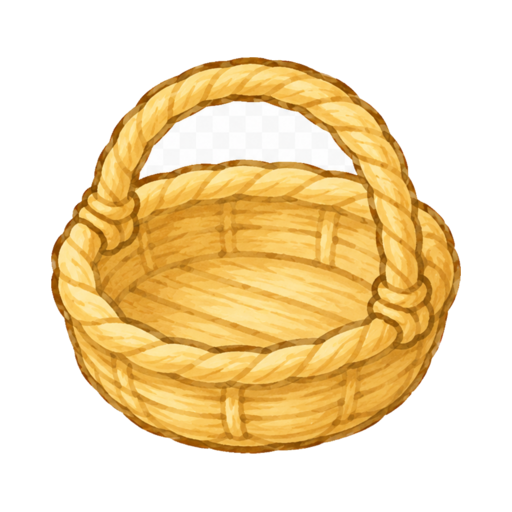
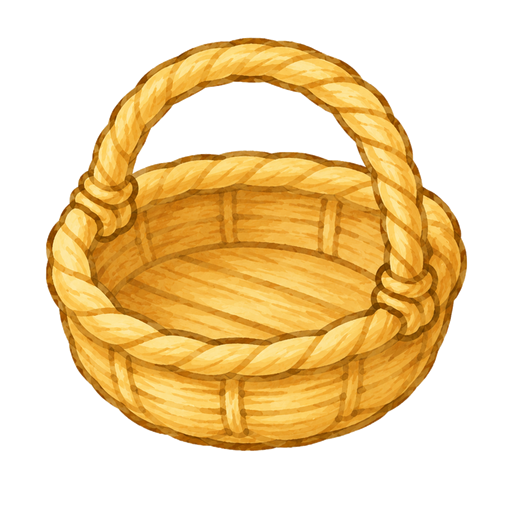
art: extend basket shop items through 10

diff --git a/docs/art/image-archive.html b/docs/art/image-archive.html
@@ -1813,7 +1813,7 @@
       </div>
       <nav class="head-actions" aria-label="그림 바로가기">
         <a class="head-action" href="#raccoon-types">너구리 A~D</a>
-        <a class="head-action primary" href="#chapter-items">새 물건 144/400</a>
+        <a class="head-action primary" href="#chapter-items">새 물건 150/400</a>
       </nav>
     </header>
 
@@ -1844,7 +1844,7 @@
     </section>
 
     <section class="section" id="chapter-items">
-      <div class="section-head"><div><p class="section-kicker">CHAPTER 1 · 144 / 400</p><h2>새 물건 제작</h2></div><p class="section-note">새 제작 계약으로 다시 그리는 1챕터 물건. 검수 통과 파일만 표시한다.</p></div>
+      <div class="section-head"><div><p class="section-kicker">CHAPTER 1 · 150 / 400</p><h2>새 물건 제작</h2></div><p class="section-note">새 제작 계약으로 다시 그리는 1챕터 물건. 검수 통과 파일만 표시한다.</p></div>
       <div style="margin:0 0 22px;padding:18px;border:1px solid var(--line);border-radius:14px;background:var(--green-soft)">
         <strong style="display:block;margin-bottom:8px">물건 아트 확정 기준 · 2026-09-02</strong>
         <p style="margin:0;color:var(--muted);font-size:13px">작은 모바일 화면에서 즉시 읽히는 단순한 실루엣을 우선한다. 명암은 2~4단계로 제한하고, 고밀도 일러스트 렌더링 대신 담백한 수채화 느낌을 사용한다. 재질은 물건을 구분하는 만큼만 표현하며 반복 질감은 빽빽하게 넣지 않는다.</p>
@@ -2013,17 +2013,23 @@
         </div>
         <h3 style="margin:24px 0 12px">08 · 소쿠리집</h3>
         <div style="display:grid;grid-template-columns:repeat(auto-fill,minmax(150px,1fr));gap:12px">
-          <a href="../../art/ch1/08-소쿠리집/01-짚 바구니.png?v=20260901" target="_blank" style="display:block;border:1px solid var(--line);border-radius:14px;padding:12px;text-decoration:none;background:#fff"><span style="display:grid;place-items:center;aspect-ratio:1;background:repeating-conic-gradient(#f4f4f4 0 25%,#fff 0 50%) 0/20px 20px;border-radius:10px"><img src="../../art/ch1/08-소쿠리집/01-짚 바구니.png?v=20260901" alt="짚 바구니" style="width:100%;height:100%;object-fit:contain"></span><strong style="display:block;margin-top:9px">01-짚 바구니</strong><small style="color:var(--muted)">512×512 · 투명 PNG</small></a>
+          <a href="../../art/ch1/08-소쿠리집/01-짚 바구니.png?v=20260902-3" target="_blank" style="display:block;border:1px solid var(--line);border-radius:14px;padding:12px;text-decoration:none;background:#fff"><span style="display:grid;place-items:center;aspect-ratio:1;background:repeating-conic-gradient(#f4f4f4 0 25%,#fff 0 50%) 0/20px 20px;border-radius:10px"><img src="../../art/ch1/08-소쿠리집/01-짚 바구니.png?v=20260902-3" alt="짚 바구니" style="width:100%;height:100%;object-fit:contain"></span><strong style="display:block;margin-top:9px">01-짚 바구니</strong><small style="color:var(--muted)">512×512 · 투명 PNG</small></a>
           <a href="../../art/ch1/08-소쿠리집/02-싸리 바구니.png?v=20260901" target="_blank" style="display:block;border:1px solid var(--line);border-radius:14px;padding:12px;text-decoration:none;background:#fff"><span style="display:grid;place-items:center;aspect-ratio:1;background:repeating-conic-gradient(#f4f4f4 0 25%,#fff 0 50%) 0/20px 20px;border-radius:10px"><img src="../../art/ch1/08-소쿠리집/02-싸리 바구니.png?v=20260901" alt="싸리 바구니" style="width:100%;height:100%;object-fit:contain"></span><strong style="display:block;margin-top:9px">02-싸리 바구니</strong><small style="color:var(--muted)">512×512 · 투명 PNG</small></a>
           <a href="../../art/ch1/08-소쿠리집/03-소쿠리.png?v=20260901" target="_blank" style="display:block;border:1px solid var(--line);border-radius:14px;padding:12px;text-decoration:none;background:#fff"><span style="display:grid;place-items:center;aspect-ratio:1;background:repeating-conic-gradient(#f4f4f4 0 25%,#fff 0 50%) 0/20px 20px;border-radius:10px"><img src="../../art/ch1/08-소쿠리집/03-소쿠리.png?v=20260901" alt="소쿠리" style="width:100%;height:100%;object-fit:contain"></span><strong style="display:block;margin-top:9px">03-소쿠리</strong><small style="color:var(--muted)">512×512 · 투명 PNG</small></a>
-          <a href="../../art/ch1/08-소쿠리집/04-채반.png?v=20260901" target="_blank" style="display:block;border:1px solid var(--line);border-radius:14px;padding:12px;text-decoration:none;background:#fff"><span style="display:grid;place-items:center;aspect-ratio:1;background:repeating-conic-gradient(#f4f4f4 0 25%,#fff 0 50%) 0/20px 20px;border-radius:10px"><img src="../../art/ch1/08-소쿠리집/04-채반.png?v=20260901" alt="채반" style="width:100%;height:100%;object-fit:contain"></span><strong style="display:block;margin-top:9px">04-채반</strong><small style="color:var(--muted)">512×512 · 투명 PNG</small></a>
+          <a href="../../art/ch1/08-소쿠리집/04-채반.png?v=20260902-3" target="_blank" style="display:block;border:1px solid var(--line);border-radius:14px;padding:12px;text-decoration:none;background:#fff"><span style="display:grid;place-items:center;aspect-ratio:1;background:repeating-conic-gradient(#f4f4f4 0 25%,#fff 0 50%) 0/20px 20px;border-radius:10px"><img src="../../art/ch1/08-소쿠리집/04-채반.png?v=20260902-3" alt="채반" style="width:100%;height:100%;object-fit:contain"></span><strong style="display:block;margin-top:9px">04-채반</strong><small style="color:var(--muted)">512×512 · 투명 PNG</small></a>
+          <a href="../../art/ch1/08-소쿠리집/05-키.png?v=20260902-3" target="_blank" style="display:block;border:1px solid var(--line);border-radius:14px;padding:12px;text-decoration:none;background:#fff"><span style="display:grid;place-items:center;aspect-ratio:1;background:repeating-conic-gradient(#f4f4f4 0 25%,#fff 0 50%) 0/20px 20px;border-radius:10px"><img src="../../art/ch1/08-소쿠리집/05-키.png?v=20260902-3" alt="키" style="width:100%;height:100%;object-fit:contain"></span><strong style="display:block;margin-top:9px">05-키</strong><small style="color:var(--muted)">512×512 · 투명 PNG</small></a>
+          <a href="../../art/ch1/08-소쿠리집/06-망태기.png?v=20260902-3" target="_blank" style="display:block;border:1px solid var(--line);border-radius:14px;padding:12px;text-decoration:none;background:#fff"><span style="display:grid;place-items:center;aspect-ratio:1;background:repeating-conic-gradient(#f4f4f4 0 25%,#fff 0 50%) 0/20px 20px;border-radius:10px"><img src="../../art/ch1/08-소쿠리집/06-망태기.png?v=20260902-3" alt="망태기" style="width:100%;height:100%;object-fit:contain"></span><strong style="display:block;margin-top:9px">06-망태기</strong><small style="color:var(--muted)">512×512 · 투명 PNG</small></a>
+          <a href="../../art/ch1/08-소쿠리집/07-삼태기.png?v=20260902-3" target="_blank" style="display:block;border:1px solid var(--line);border-radius:14px;padding:12px;text-decoration:none;background:#fff"><span style="display:grid;place-items:center;aspect-ratio:1;background:repeating-conic-gradient(#f4f4f4 0 25%,#fff 0 50%) 0/20px 20px;border-radius:10px"><img src="../../art/ch1/08-소쿠리집/07-삼태기.png?v=20260902-3" alt="삼태기" style="width:100%;height:100%;object-fit:contain"></span><strong style="display:block;margin-top:9px">07-삼태기</strong><small style="color:var(--muted)">512×512 · 투명 PNG</small></a>
+          <a href="../../art/ch1/08-소쿠리집/08-광주리.png?v=20260902-3" target="_blank" style="display:block;border:1px solid var(--line);border-radius:14px;padding:12px;text-decoration:none;background:#fff"><span style="display:grid;place-items:center;aspect-ratio:1;background:repeating-conic-gradient(#f4f4f4 0 25%,#fff 0 50%) 0/20px 20px;border-radius:10px"><img src="../../art/ch1/08-소쿠리집/08-광주리.png?v=20260902-3" alt="광주리" style="width:100%;height:100%;object-fit:contain"></span><strong style="display:block;margin-top:9px">08-광주리</strong><small style="color:var(--muted)">512×512 · 투명 PNG</small></a>
+          <a href="../../art/ch1/08-소쿠리집/09-등짐 바구니.png?v=20260902-3" target="_blank" style="display:block;border:1px solid var(--line);border-radius:14px;padding:12px;text-decoration:none;background:#fff"><span style="display:grid;place-items:center;aspect-ratio:1;background:repeating-conic-gradient(#f4f4f4 0 25%,#fff 0 50%) 0/20px 20px;border-radius:10px"><img src="../../art/ch1/08-소쿠리집/09-등짐 바구니.png?v=20260902-3" alt="등짐 바구니" style="width:100%;height:100%;object-fit:contain"></span><strong style="display:block;margin-top:9px">09-등짐 바구니</strong><small style="color:var(--muted)">512×512 · 투명 PNG</small></a>
+          <a href="../../art/ch1/08-소쿠리집/10-죽합.png?v=20260902-3" target="_blank" style="display:block;border:1px solid var(--line);border-radius:14px;padding:12px;text-decoration:none;background:#fff"><span style="display:grid;place-items:center;aspect-ratio:1;background:repeating-conic-gradient(#f4f4f4 0 25%,#fff 0 50%) 0/20px 20px;border-radius:10px"><img src="../../art/ch1/08-소쿠리집/10-죽합.png?v=20260902-3" alt="죽합" style="width:100%;height:100%;object-fit:contain"></span><strong style="display:block;margin-top:9px">10-죽합</strong><small style="color:var(--muted)">512×512 · 투명 PNG</small></a>
         </div>
       <p style="margin:18px 0 0"><a href="https://github.com/nonexpertchassi-creator/raccoon-hollow/tree/codex/ch1-item-production-20260831/art/ch1" target="_blank">GitHub에서 전체 폴더 열기</a></p>
     </section>
 
     <footer class="foot">
       <span>라쿤마켓 · 그림 라이브러리</span>
-      <code>너구리 A~D · 새 물건 144 / 400 · updated 2026-09-01</code>
+      <code>너구리 A~D · 새 물건 150 / 400 · updated 2026-09-02</code>
     </footer>
   </main>
 </body>
